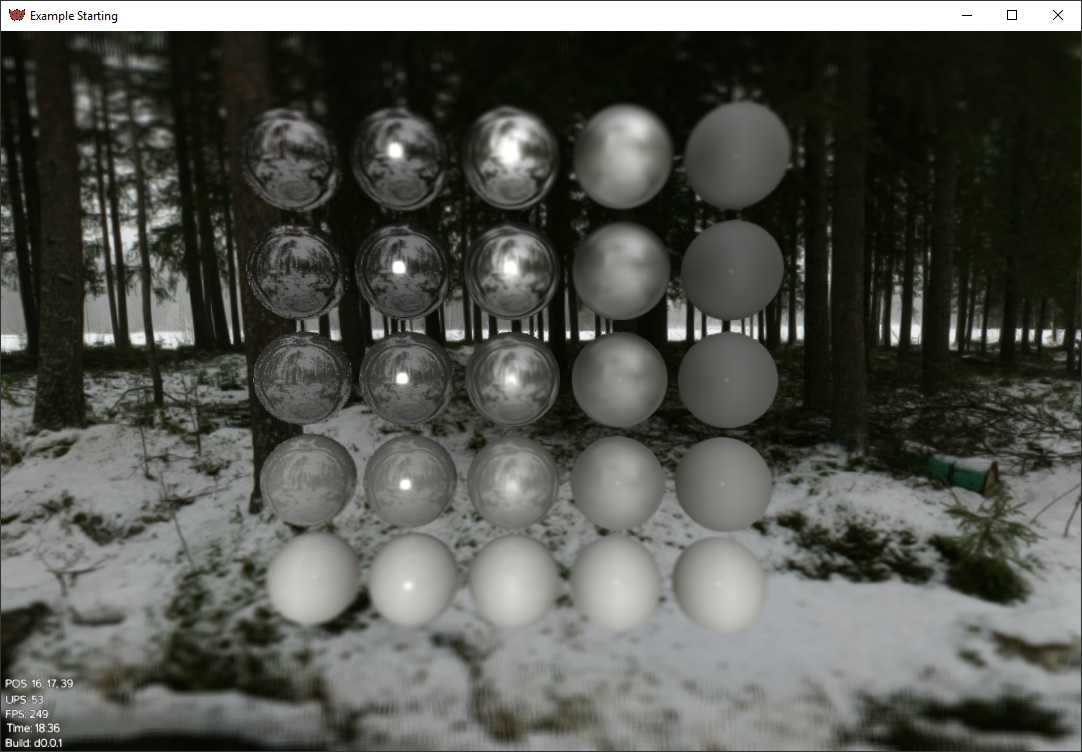
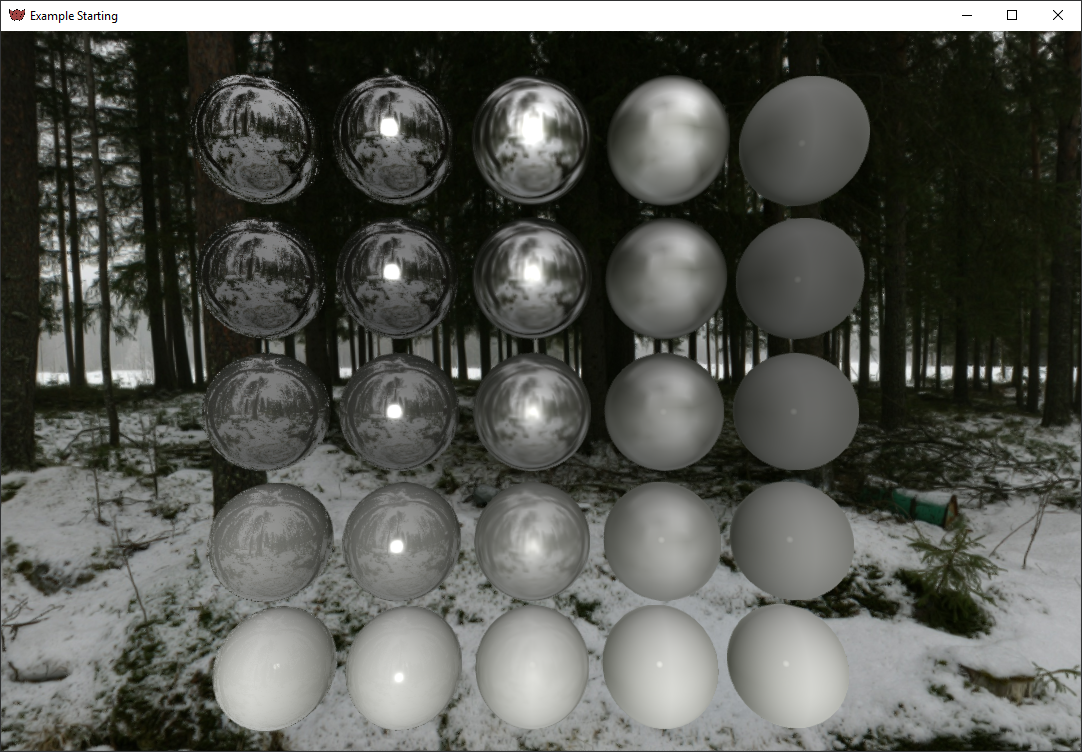
Demo tweaks

diff --git a/Sources/ExampleStarting/ManagerRender.cpp b/Sources/ExampleStarting/ManagerRender.cpp
@@ -131,14 +131,14 @@ namespace Demo
 		// Subpass 2.
 #ifndef FLOUNDER_PLATFORM_MACOS
 		m_filterFxaa->Render(commandBuffer);
-		m_filterLensflare->SetSunPosition(*Worlds::Get()->GetSunPosition());
-		m_filterLensflare->SetSunHeight(Worlds::Get()->GetSunHeight());
-		m_filterLensflare->Render(commandBuffer);
-		m_filterTiltshift->Render(commandBuffer);
+//		m_filterLensflare->SetSunPosition(*Worlds::Get()->GetSunPosition());
+//		m_filterLensflare->SetSunHeight(Worlds::Get()->GetSunHeight());
+//		m_filterLensflare->Render(commandBuffer);
+//		m_filterTiltshift->Render(commandBuffer);
 //		m_filterGrain->Render(commandBuffer);
 #endif
-		m_rendererGuis->Render(commandBuffer, m_infinity, *camera);
-		m_rendererFonts->Render(commandBuffer, m_infinity, *camera);
+		//m_rendererGuis->Render(commandBuffer, m_infinity, *camera);
+		//m_rendererFonts->Render(commandBuffer, m_infinity, *camera);
 
 		// Ends Rendering.
 		Renderer::Get()->EndRenderpass(commandBuffer, 1);

diff --git a/Sources/ExampleStarting/Scenes/Scene1.cpp b/Sources/ExampleStarting/Scenes/Scene1.cpp
@@ -98,10 +98,6 @@ namespace Demo
 		// Entities.
 		GameObject *sun = new GameObject(Transform(Vector3(100.0f, 1000.0f, 8000.0f), Vector3(), 18.0f));
 		sun->AddComponent(new Light(Colour("#FFFFFF"), -1.0f));
-	//	new GameObject("Sun", Transform(Vector3(), Vector3(), 18.0f));
-	//	new GameObject("Moon", Transform(Vector3(), Vector3(), 9.0f));
-
-	//	new GameObject("Player", Transform(Vector3(5, 20, 5), Vector3(), 1.0f)); // Testing animations.
 
 		for (int i = 0; i < 5; i++)
 		{
@@ -117,6 +113,10 @@ namespace Demo
 				sphere->AddComponent<ShadowRender>();
 			}
 		}
+
+	//	new GameObject("Sun", Transform(Vector3(), Vector3(), 18.0f));
+	//	new GameObject("Moon", Transform(Vector3(), Vector3(), 9.0f));
+	//	new GameObject("Player", Transform(Vector3(5, 20, 5), Vector3(), 1.0f)); // Testing animations.
 
 		/*Vector3 foundationCentre = Terrains::Get()->GetPosition(15.7f, -25.0f);
 

diff --git a/Sources/FlounderEngine/Devices/Display.cpp b/Sources/FlounderEngine/Devices/Display.cpp
@@ -112,9 +112,9 @@ namespace Flounder
 		m_windowPosX(0),
 		m_windowPosY(0),
 //#if defined(FLOUNDER_VERBOSE) && !defined(FLOUNDER_PLATFORM_MACOS)
-		m_validationLayers(true),
+//		m_validationLayers(true),
 //#else
-//		m_validationLayers(false),
+		m_validationLayers(false),
 //#endif
 		m_instanceLayerList(std::vector<const char *>()),
 		m_instanceExtensionList(std::vector<const char *>()),

diff --git a/README.md b/README.md
@@ -67,6 +67,12 @@ Metrics   [Code metrics](https://equilibrium-games.github.io/Flounder-Docs/loc/L
 ## Screenshots
 <img src="https://github.com/Equilibrium-Games/Flounder/blob/master/Documents/Screenshot1.png" alt="flounder" width=600>
 
+<img src="https://github.com/Equilibrium-Games/Flounder/blob/master/Documents/Screenshot2.png" alt="flounder" width=600>
+
+<img src="https://github.com/Equilibrium-Games/Flounder/blob/master/Documents/Screenshot3.png" alt="flounder" width=600>
+
+<img src="https://github.com/Equilibrium-Games/Flounder/blob/master/Documents/Screenshot4.png" alt="flounder" width=600>
+
 ## Contributing
 You can contribute to Flounder in any way you want, we are always looking for help.
 
